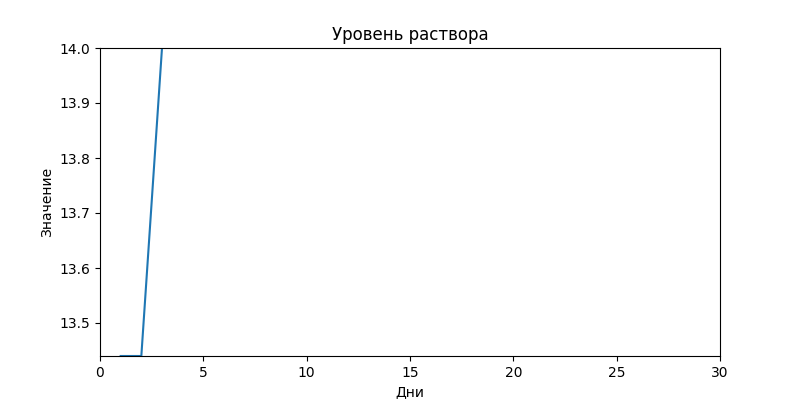
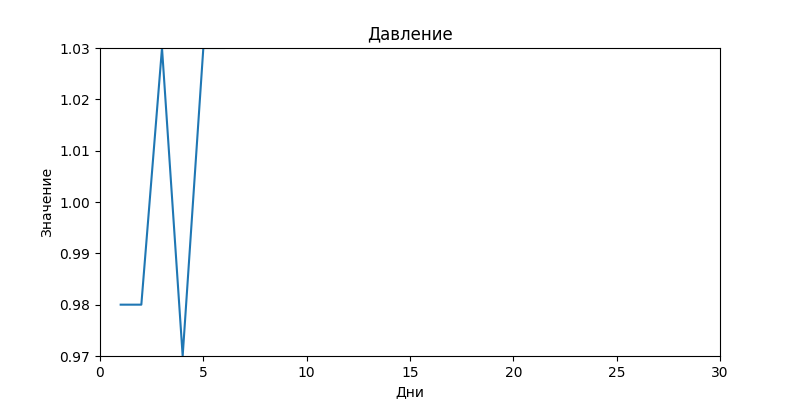
изменение диапазона

diff --git a/project1.py b/project1.py
@@ -13,6 +13,17 @@ recommendations = {
     'Снизить:': set(),
     'Датчики, требующие калибровки:': set()
 }
+new_delta = {
+    'Влажность воздуха': [40,60], 
+    'Влажность почвы':[90,95],
+    'Температура воздуха':[22,24], 
+    'Температура раствора':[15,19], 
+    'Давление':[0.95,1.05], 
+    'Уровень раствора':[13,15], 
+    'Кислотность раствора':[5.1,5.9], 
+    'Содержание ионов':[900,1100], 
+    'Освещенность':[100,150],
+}
 
 
 class SensorInfo:
@@ -58,13 +69,48 @@ def item_selected(event):
             plt.savefig(fname='graf4.png')
 
 
+def click():
+    window = Tk()
+    window.title("Изменение диапазона")
+    window.geometry("200x100")
+    sensors = [
+            'Влажность воздуха', 
+            'Влажность почвы',
+            'Температура воздуха', 
+            'Температура раствора', 
+            'Давление', 
+            'Уровень раствора', 
+            'Кислотность раствора', 
+            'Содержание ионов', 
+            'Освещенность',
+    ]
+    def callback(eventObject):
+        combobox.get()
+    def enter_new_delta():
+        new_delta[combobox.get()] = [int(entry_min.get()),int(entry_max.get())]
+
+
+    combobox = ttk.Combobox(window,values=sensors,font=('Arial', 12),state='readonly')
+    combobox.bind("<<ComboboxSelected>>", callback)
+    combobox.pack(fill=X, ipadx=6,ipady=6)
+    entry_min = ttk.Entry(window,width=2)
+    entry_min.place(x=120,y=40)
+    entry_max = ttk.Entry(window,width=2)
+    entry_max.place(x=150,y=40)
+    get_button = ttk.Button(window, text="Выбор", command=enter_new_delta)
+    get_button.place(anchor='center',x=100,y=80)
+    label = ttk.Label(window,text='Новый диапазон:', font=('Arial', 10))
+    label.place(x=10,y=40)
+    tire = ttk.Label(window,text=' - ', font=('Arial', 10))
+    tire.place(x=135,y=40)
+
+
 root= Tk()
 root.title('Climat-control system')
 root.geometry("1250x500")
 icon =PhotoImage(file="save_nature.png")
 root.iconphoto(False,icon)
 root.configure(background='white')
-
 
 # Текстовые поля
 Label_right = ttk.Label(text='Оценка показателей', font=('Arial', 14),background='white')
@@ -109,17 +155,20 @@ async def update_val():
     graph = PhotoImage(file="graf4.png")
     graph_label=ttk.Label(image=graph)
     t = 0
+    # Создание окна изменения диапазона датчиков
+    btn = ttk.Button(text='Изменение диапазона',command=click)
+    btn.place(x=900,y=300)
     while True:
         sensors = [
-            SensorInfo('Влажность воздуха', ran(40,60,t), 40,60,',%'), 
-            SensorInfo('Влажность почвы', ran(90,95,t), 90,95,',%'), 
-            SensorInfo('Температура воздуха', ran(22, 24, t), 22,24,',℃'), 
-            SensorInfo('Температура раствора', ran(15,19,t), 15,19,',℃'), 
-            SensorInfo('Давление', ran(0.950,1.050,t), 0.950,1.050,',атм'), 
-            SensorInfo('Уровень раствора', ran(13,15,t), 13,15,',см'), 
-            SensorInfo('Кислотность раствора', ran(5.1,5.9,t),5.1,5.9,',pH'), 
-            SensorInfo('Содержание ионов', ran(900,1100,t),900,1100,',шт'), 
-            SensorInfo('Освещенность', ran(100,150,t),100,150,',лк'),
+            SensorInfo('Влажность воздуха', ran(new_delta['Влажность воздуха'][0],new_delta['Влажность воздуха'][1],t), new_delta['Влажность воздуха'][0],new_delta['Влажность воздуха'][1],',%'), 
+            SensorInfo('Влажность почвы', ran(new_delta['Влажность почвы'][0],new_delta['Влажность почвы'][1],t), new_delta['Влажность почвы'][0],new_delta['Влажность почвы'][1],',%'), 
+            SensorInfo('Температура воздуха', ran(new_delta['Температура воздуха'][0],new_delta['Температура воздуха'][1],t), new_delta['Температура воздуха'][0],new_delta['Температура воздуха'][1],',℃'), 
+            SensorInfo('Температура раствора', ran(new_delta['Температура раствора'][0],new_delta['Температура раствора'][1],t), new_delta['Температура раствора'][0],new_delta['Температура раствора'][1],',℃'), 
+            SensorInfo('Давление', ran(new_delta['Давление'][0],new_delta['Давление'][1],t), new_delta['Давление'][0],new_delta['Давление'][1],',атм'), 
+            SensorInfo('Уровень раствора', ran(new_delta['Уровень раствора'][0],new_delta['Уровень раствора'][1],t), new_delta['Уровень раствора'][0],new_delta['Уровень раствора'][1],',см'), 
+            SensorInfo('Кислотность раствора', ran(new_delta['Кислотность раствора'][0],new_delta['Кислотность раствора'][1],t), new_delta['Кислотность раствора'][0],new_delta['Кислотность раствора'][1],',pH'), 
+            SensorInfo('Содержание ионов', ran(new_delta['Содержание ионов'][0],new_delta['Содержание ионов'][1],t), new_delta['Содержание ионов'][0],new_delta['Содержание ионов'][1],',шт'), 
+            SensorInfo('Освещенность', ran(new_delta['Освещенность'][0],new_delta['Освещенность'][1],t), new_delta['Освещенность'][0],new_delta['Освещенность'][1],',лк'),
         ]
         update_items(table,sensors)
         await asyncio.sleep(3)
@@ -166,7 +215,7 @@ async def update_val():
         graph_label.destroy()
         graph = PhotoImage(file="graf4.png")
         graph_label=ttk.Label(image=graph)
-        graph_label.place(x=670, y=320)
+        graph_label.place(x=670, y=350)
         t += 3
 table.bind("<<TreeviewSelect>>", item_selected)
 async_handler(update_val)()
